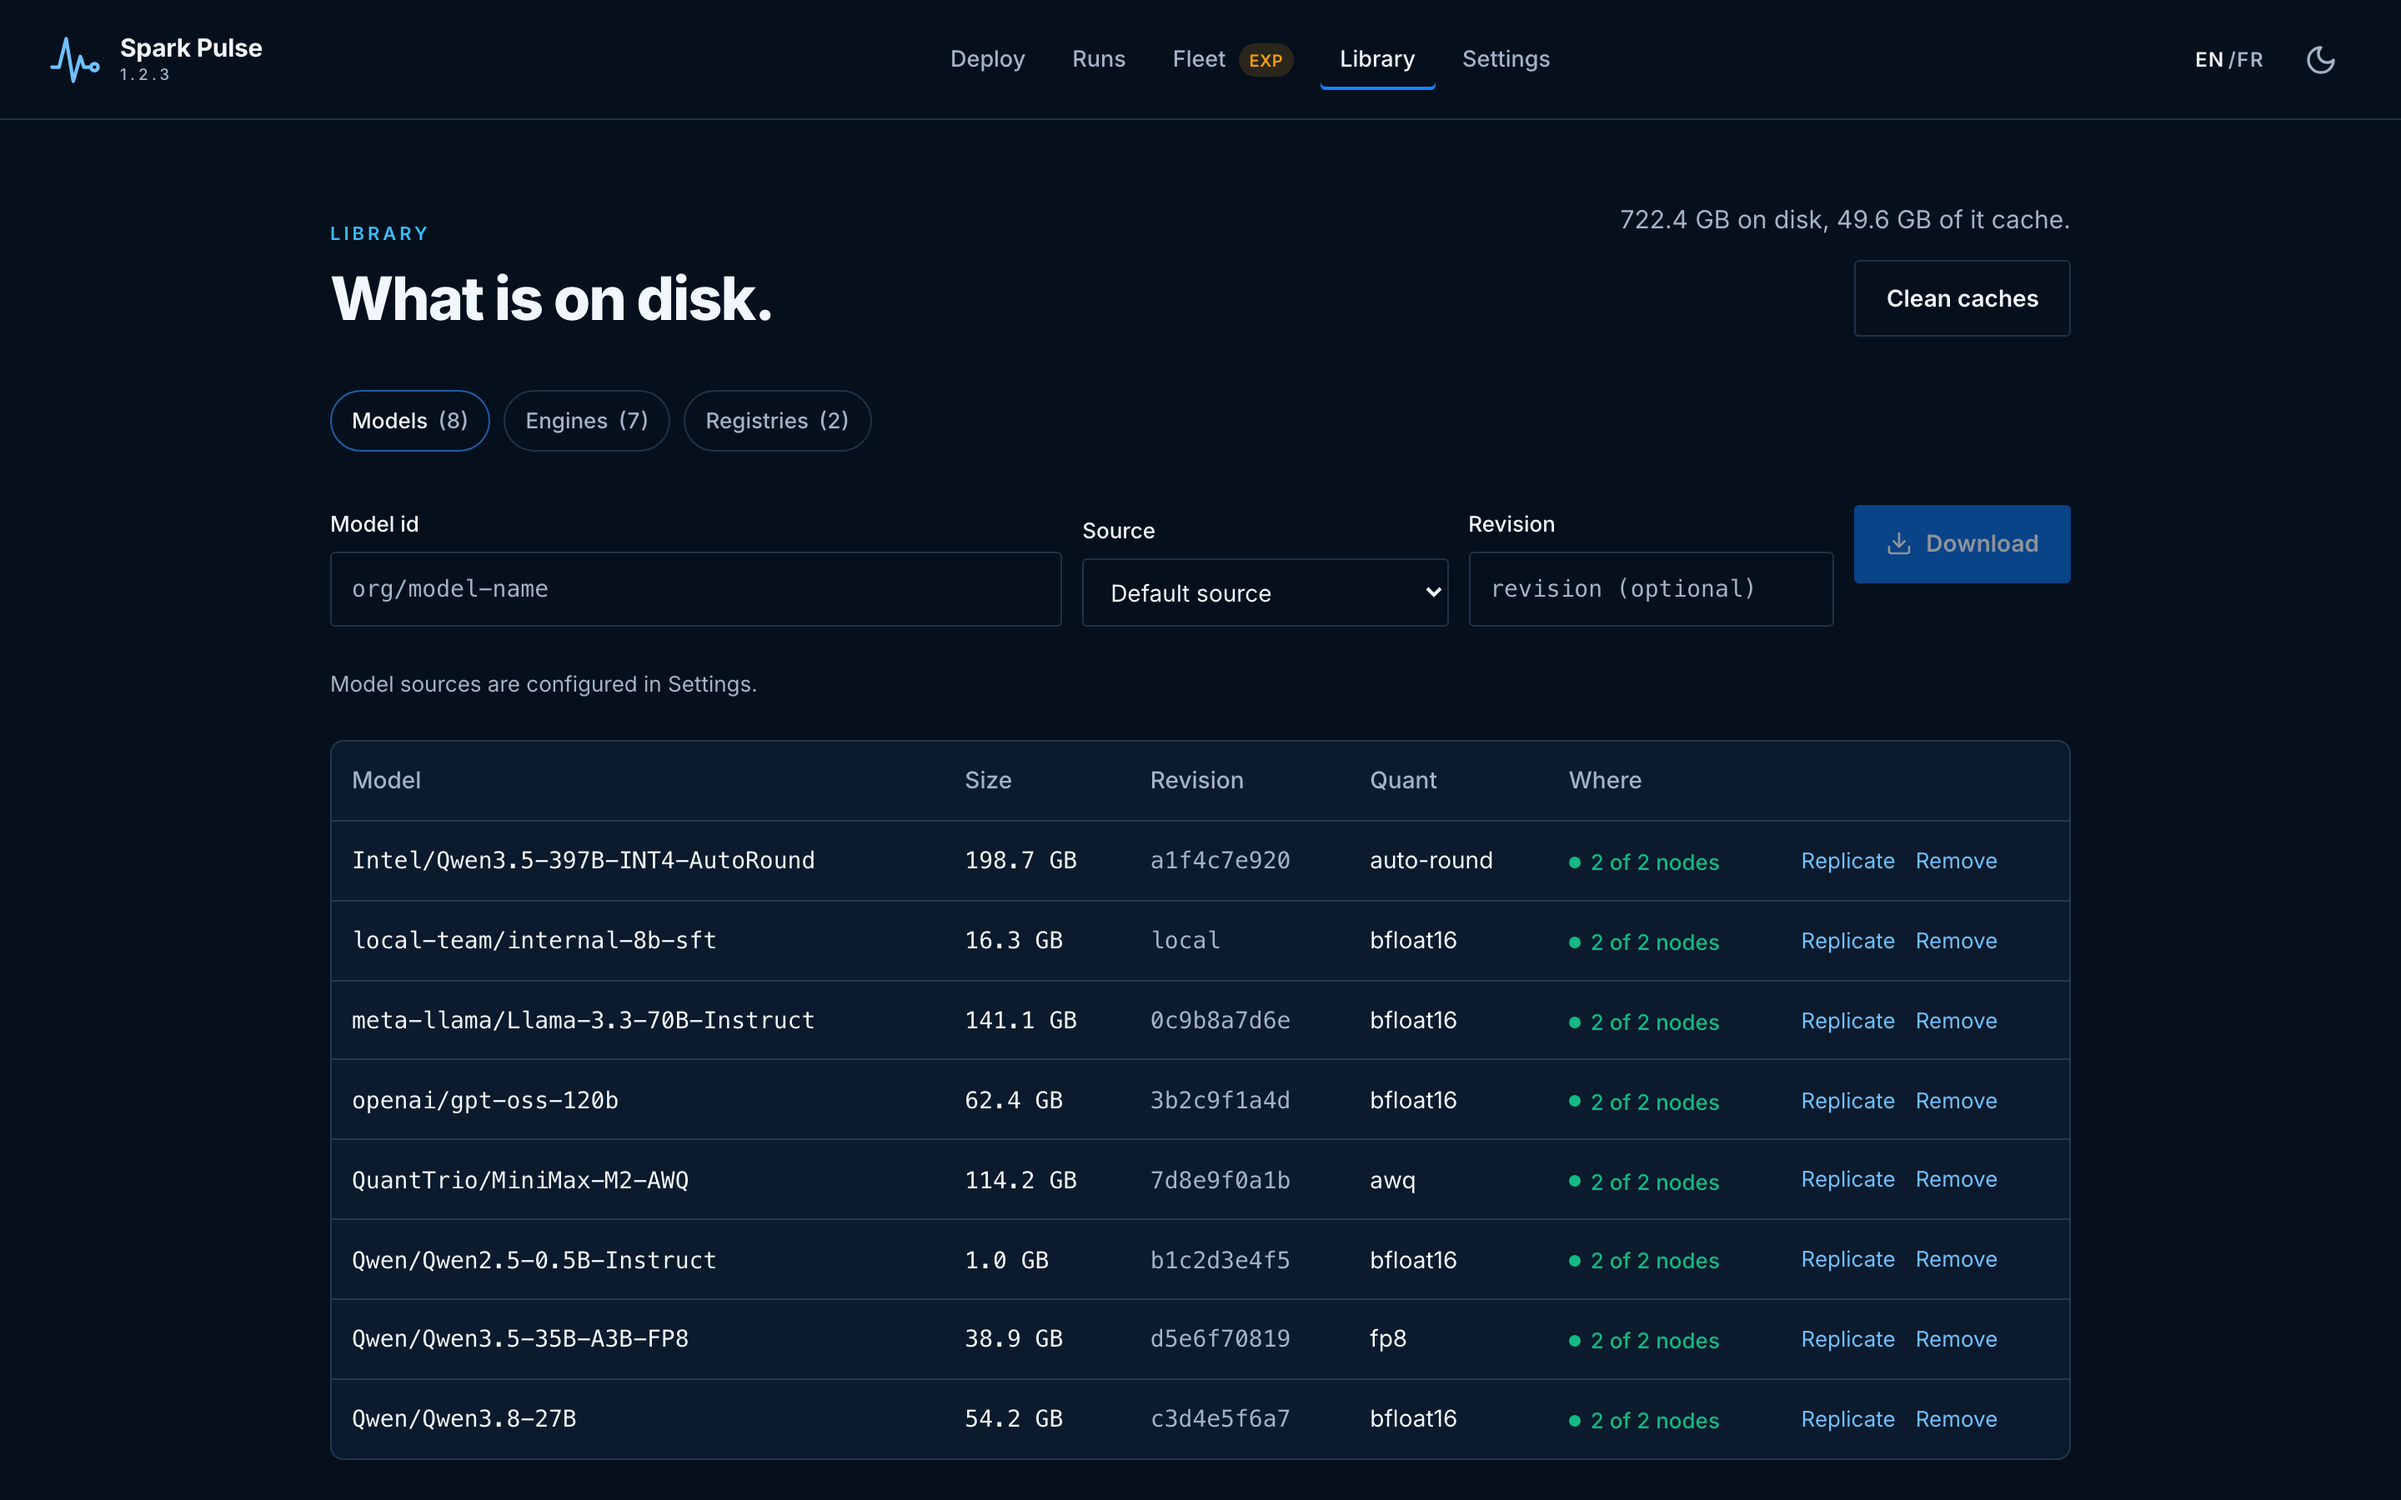
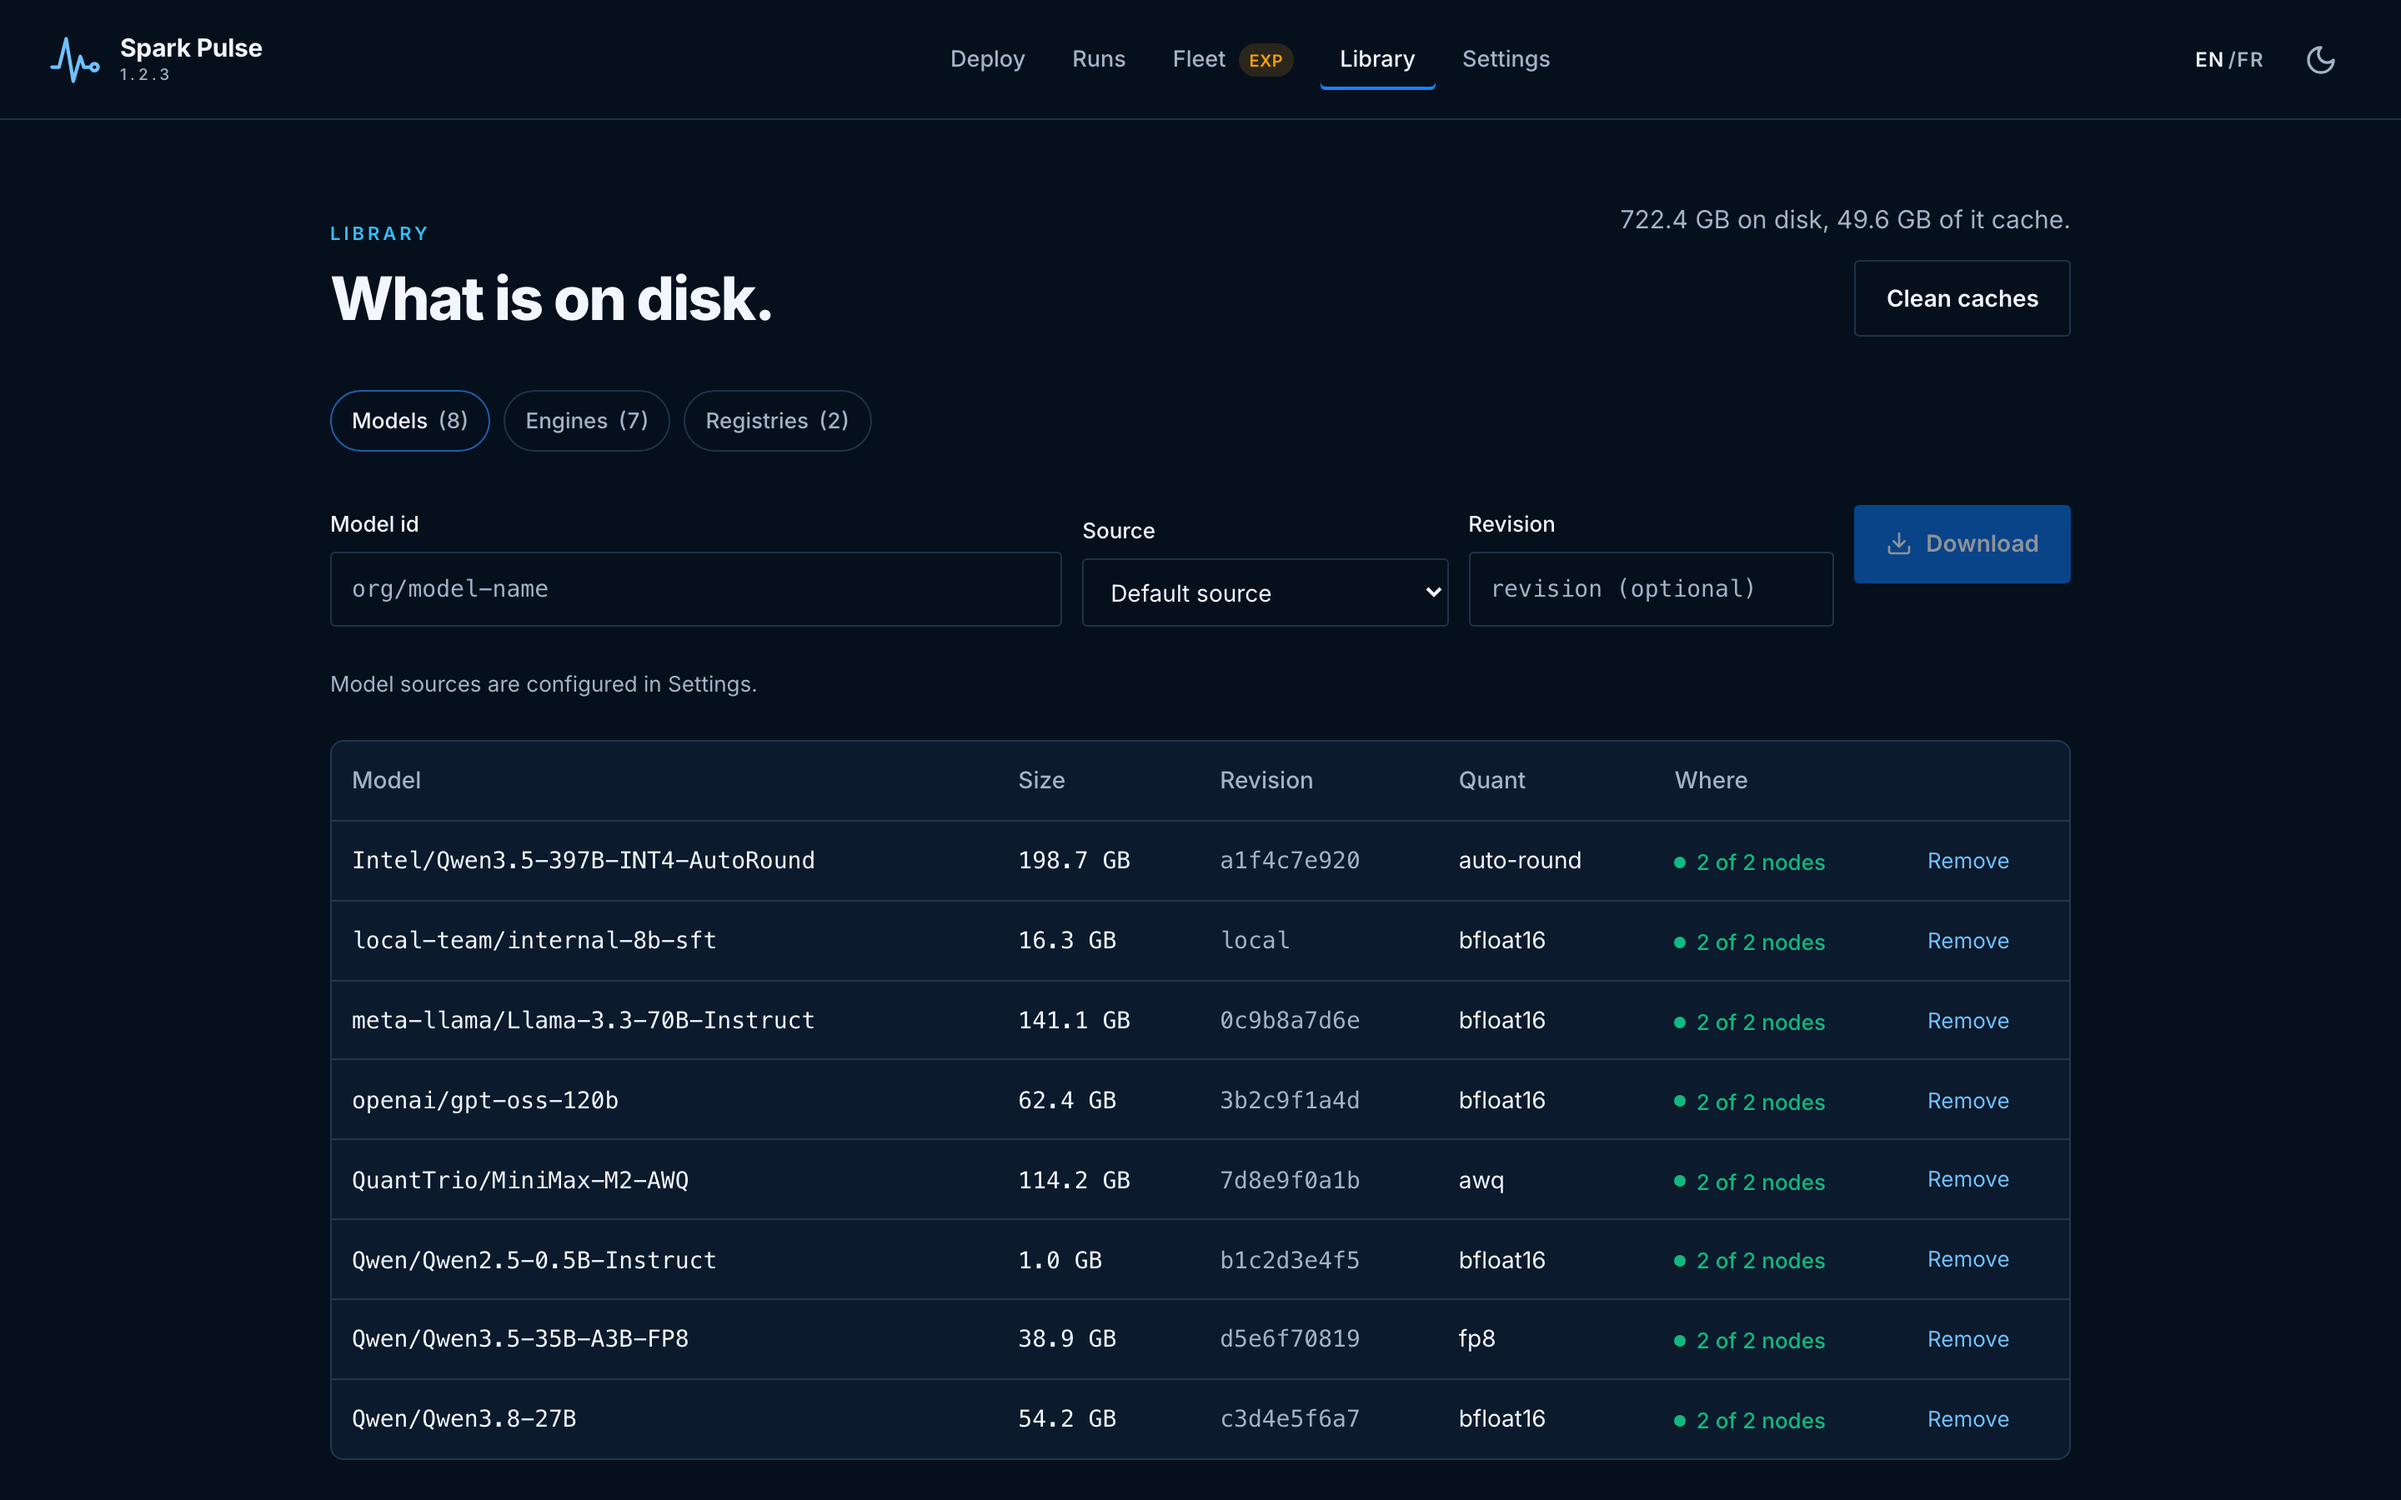
fix: stop offering replicate for a model every node already holds
The models row gated Replicate on `peers.length > 0` alone — whether any
other machine existed, never whether it had the model. So a model presence
reported as verified on every node still offered a transfer, and taking it
up sent nothing: the dialog preselected no nodes and the server answered
"already verified — skipped" for each one. On the Library screenshot every
one of eight rows read "2 of 2 nodes" and offered Replicate beside it.

The row already computed the fact. `describeWhere` returns `state: "ok"`
only when every node answered and every one holds a verified copy, so the
action now checks it.

The three verdicts that keep the action are the point of the change:

- `warn` — a node is short of a copy, which is what replicate is for.
- `bad` — a partial copy, a snapshot without its blobs; re-sending it is
  the repair.
- `unknown` — a node that could not be asked. Silence is not evidence the
  model is there, so the operator must still be able to send it. This is
  the same rule the Where column already follows.

Remove is untouched: the copies are the point, not the row.

Claude-Session: https://claude.ai/code/session_01VxFf4KT9bRFY8fs322zS3J

diff --git a/web/src/tests/components/LibraryModels.test.tsx b/web/src/tests/components/LibraryModels.test.tsx
@@ -887,6 +887,77 @@ describe("Library — where a model is", () => {
     expect(await screen.findAllByText("spark-01 only")).toHaveLength(2);
   });
 
+  /** Replicate is an offer to move bytes. When every node has answered and
+   *  every node holds a verified copy there is nowhere to move them, and the
+   *  row was offering a transfer whose whole result would be "skipped". */
+  it("stops offering replication once every node holds a verified copy", async () => {
+    vi.mocked(fetchNodes).mockResolvedValue([
+      { is_control_plane: true, address: "192.168.1.100", name: "spark-01" },
+      { is_control_plane: false, address: "10.0.0.11" },
+    ] as never);
+    vi.mocked(fetchModelPresence).mockImplementation((id: string) =>
+      Promise.resolve({
+        model: id,
+        local: true,
+        local_state: "verified",
+        nodes: [{ node: "10.0.0.11", present: true, state: "verified", error: null }],
+      }),
+    );
+    renderPage();
+
+    expect(await screen.findAllByText("2 of 2 nodes")).toHaveLength(2);
+    expect(
+      screen.queryByLabelText("Replicate acme/plain-7b to other nodes"),
+    ).not.toBeInTheDocument();
+    // Removing it is still the operator's to make — it is the copies that are
+    // the point, not the row.
+    expect(screen.getByLabelText("Remove acme/plain-7b")).toBeInTheDocument();
+  });
+
+  /** A node that could not be asked is not a node that has the model. */
+  it("still offers replication to a node that could not be asked", async () => {
+    vi.mocked(fetchNodes).mockResolvedValue([
+      { is_control_plane: true, address: "192.168.1.100", name: "spark-01" },
+      { is_control_plane: false, address: "10.0.0.11" },
+    ] as never);
+    vi.mocked(fetchModelPresence).mockImplementation((id: string) =>
+      Promise.resolve({
+        model: id,
+        local: true,
+        local_state: "verified",
+        nodes: [{ node: "10.0.0.11", present: false, error: "connection reset" }],
+      }),
+    );
+    renderPage();
+
+    await screen.findByText("acme/plain-7b");
+    expect(
+      await screen.findByLabelText("Replicate acme/plain-7b to other nodes"),
+    ).toBeInTheDocument();
+  });
+
+  /** A partial copy is a broken one, and re-sending it is the repair. */
+  it("still offers replication when a node holds a partial copy", async () => {
+    vi.mocked(fetchNodes).mockResolvedValue([
+      { is_control_plane: true, address: "192.168.1.100", name: "spark-01" },
+      { is_control_plane: false, address: "10.0.0.11" },
+    ] as never);
+    vi.mocked(fetchModelPresence).mockImplementation((id: string) =>
+      Promise.resolve({
+        model: id,
+        local: true,
+        local_state: "verified",
+        nodes: [{ node: "10.0.0.11", present: true, state: "partial", error: null }],
+      }),
+    );
+    renderPage();
+
+    await screen.findByText("acme/plain-7b");
+    expect(
+      await screen.findByLabelText("Replicate acme/plain-7b to other nodes"),
+    ).toBeInTheDocument();
+  });
+
   it("leaves the row unchecked when the presence read fails", async () => {
     vi.mocked(fetchNodes).mockResolvedValue([
       { is_control_plane: true, address: "192.168.1.100" },

diff --git a/web/src/components/library/ModelsTab.tsx b/web/src/components/library/ModelsTab.tsx
@@ -351,9 +351,17 @@ export default function ModelsTab({ models: modelsQuery, cache, scrollToCaches }
     [scheduled],
   );
 
-  const actionsFor = (model: ModelEntry) => (
+  /** Replicate is offered only while there is somewhere for the bytes to go.
+   *
+   *  `where.state === "ok"` is the one verdict that means every node answered
+   *  and every node holds a verified copy, so replicating would send 200 GB to
+   *  produce a row of "skipped". Every other verdict keeps the action: `warn`
+   *  is a node short of a copy, `bad` is a partial one worth re-sending, and
+   *  `unknown` is a node that could not be asked — which is not evidence it
+   *  has the model, so the operator must still be able to send it. */
+  const actionsFor = (model: ModelEntry, where: WhereVerdict) => (
     <div className="flex items-center gap-3 text-[13px]">
-      {peers.length > 0 && (
+      {peers.length > 0 && where.state !== "ok" && (
         <button
           type="button"
           onClick={() => setReplicateTarget(model.id)}
@@ -545,7 +553,7 @@ export default function ModelsTab({ models: modelsQuery, cache, scrollToCaches }
                     <td className="p-3">
                       <NodeState state={where.state} label={where.label} title={where.title} />
                     </td>
-                    <td className="p-3 text-right whitespace-nowrap">{actionsFor(m)}</td>
+                    <td className="p-3 text-right whitespace-nowrap">{actionsFor(m, where)}</td>
                   </tr>
                 );
               })}
@@ -569,7 +577,7 @@ export default function ModelsTab({ models: modelsQuery, cache, scrollToCaches }
                   {formatSize(m.size_bytes)} · {describePrecision(m)}
                 </p>
                 <NodeState state={where.state} label={where.label} title={where.title} />
-                {actionsFor(m)}
+                {actionsFor(m, where)}
               </div>
             );
           })}
